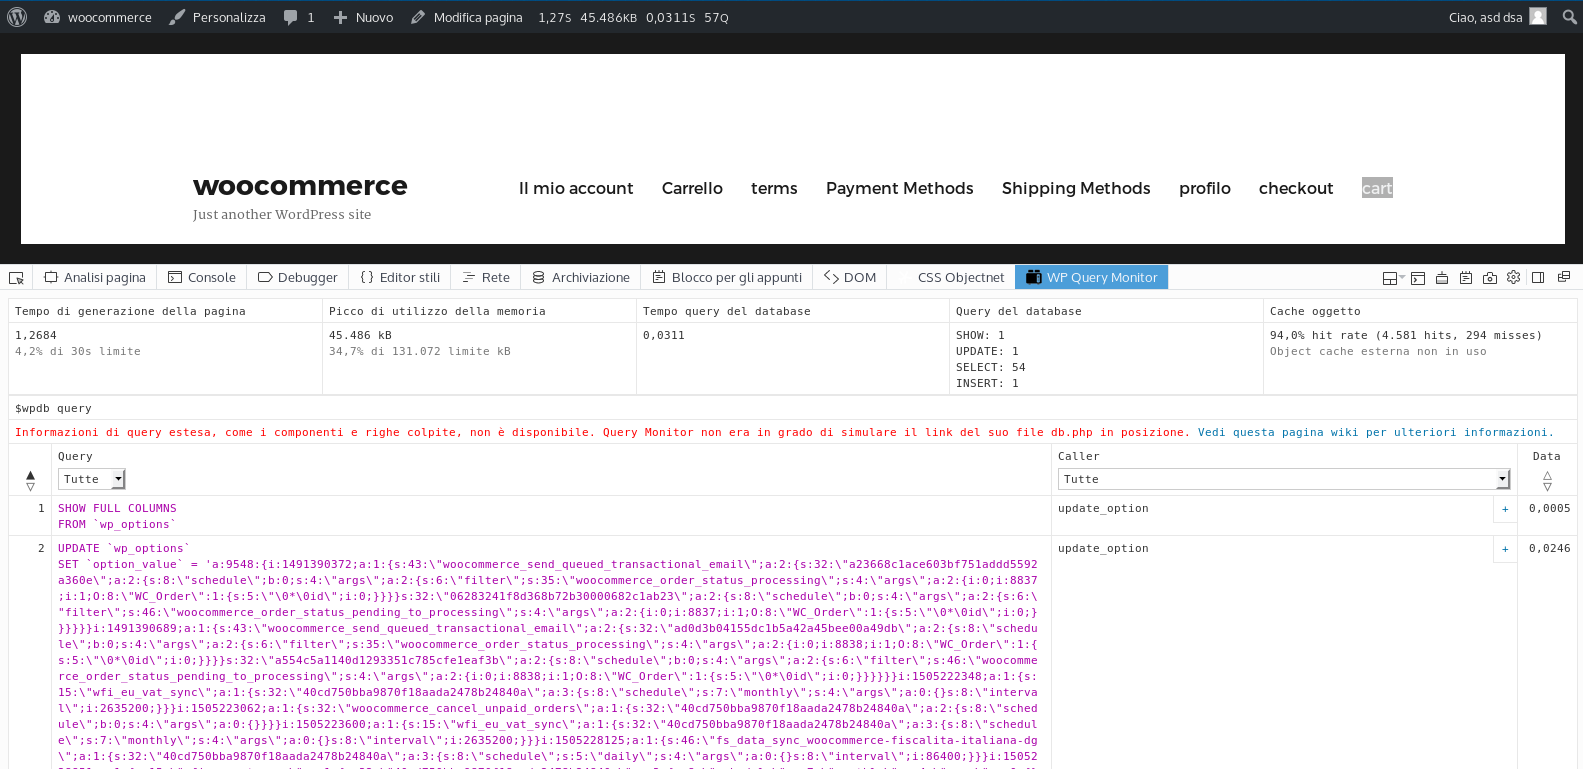
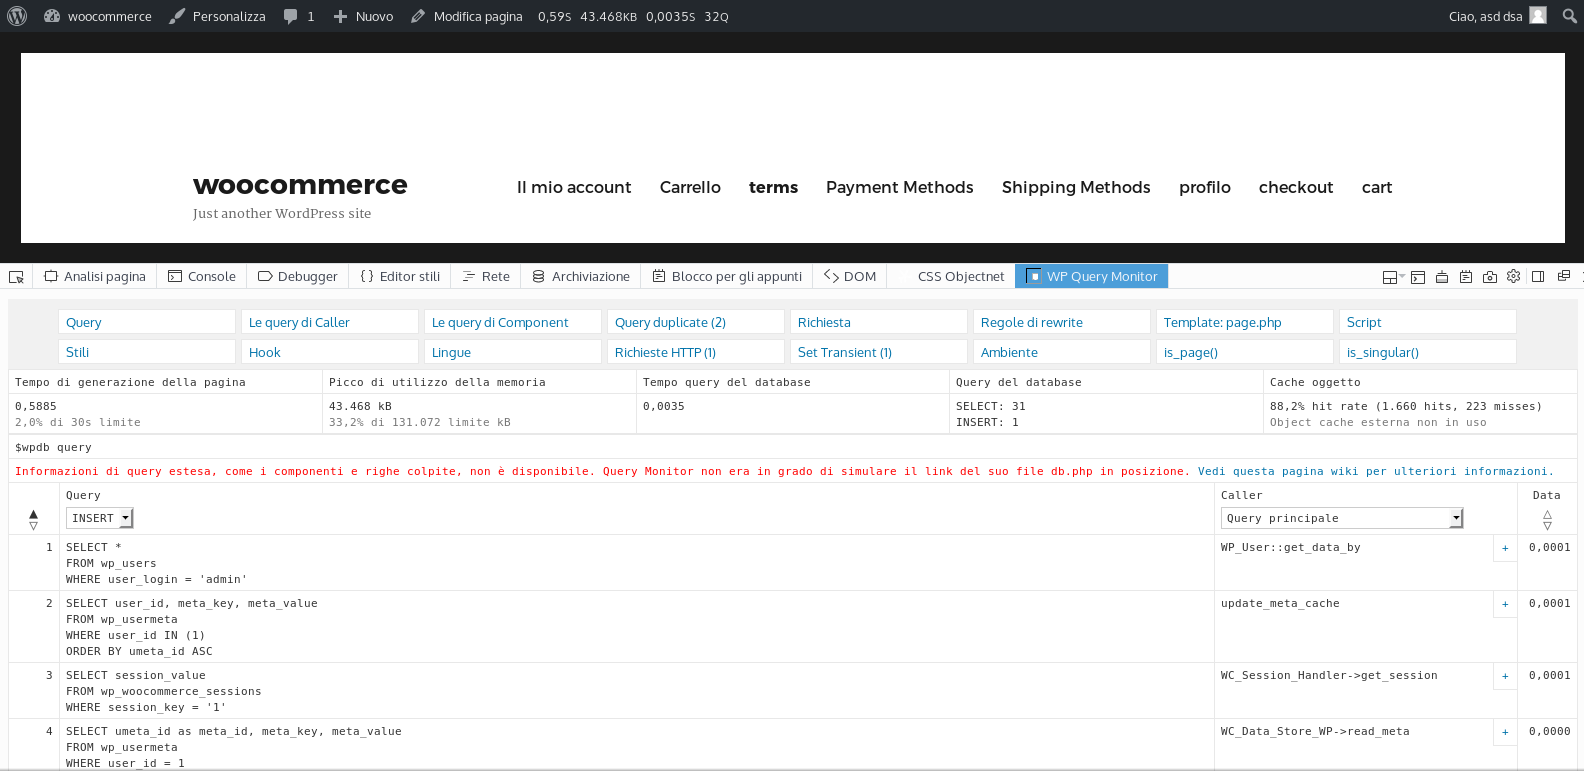
added the menu

diff --git a/devtools/panel/query-monitor.js b/devtools/panel/query-monitor.js
@@ -51,6 +51,23 @@ var QM_i18n = {
 };
 
 function loadQM() {
+  var container = document.createDocumentFragment();
+  $.each(window.qm.menu.sub, function (i, el) {
+
+	var new_menu = $('<li><a/></li>');
+	new_menu
+			.find('a').eq(0)
+			.html(el.title)
+			.attr('href', el.href);
+
+	container.appendChild(new_menu.get(0));
+
+  });
+
+  $('<ul/>').appendTo('#qm-title').append(container).find('a').on('click', function (e) {
+	$('#qm').addClass('qm-show').removeClass('qm-hide qm-peek');
+  });
+  
   $('.qm-filter').each(function () {
 	var filter = $(this).attr('data-filter');
 	var value = localStorage.getItem('qm-' + filter);
@@ -58,7 +75,7 @@ function loadQM() {
 	  $(this).val(value).change();
 	}
   });
-  
+
   $('.qm-filter').on('change', function () {
 	var filter = $(this).attr('data-filter'),
 			table = $(this).closest('table'),
@@ -67,7 +84,7 @@ function loadQM() {
 			hilite = $(this).attr('data-highlight'),
 			time = 0;
 	localStorage.setItem('qm-' + filter, $(this).find('option:selected').val());
-	
+
 	tr.removeClass('qm-hide-' + filter);
 	if (hilite) {
 	  table.find('tr').removeClass('qm-highlight');

diff --git a/devtools/panel/query-monitor.css b/devtools/panel/query-monitor.css
@@ -17,9 +17,34 @@ GNU General Public License for more details.
 	background: #f1f1f1 !important;
 	text-align: left !important;
 }
-
-#qm-title {
+	
+#qm-title p {
 	display:none;
+}
+
+#qm-title ul {
+	margin: 10px 10px 0 !important;
+	font-style: normal !important;
+	font-weight: normal !important;
+	font-size: 11px !important;
+	line-height: 16px !important;
+	font-family: Menlo, Monaco, Consolas, monospace !important;
+	list-style: none !important;
+	padding-top:10px;
+}
+
+#qm-title li {
+	display: inline-block !important;
+	width: 16em !important;
+	background: #fff !important;
+	border: 1px solid #e8e8e8 !important;
+	margin: 0 5px 5px 0 !important;
+}
+
+#qm-title li a {
+	display: block !important;
+	padding: 4px 7px !important;
+	font: 13px/15px 'Open Sans', Arial !important;
 }
 
 .qm-half {

diff --git a/devtools/panel/panel.html b/devtools/panel/panel.html
@@ -6,7 +6,7 @@
 		<link rel='stylesheet' href='query-monitor.css' type='text/css' media='all' />
 	</head>
 	<body>
-		<div id="qm" class="qm-js">This site not include Query Monitor</div>
+		<div id="qm">This site not include Query Monitor</div>
 		<script src="devtools-panel.js"></script>
 		<script src="query-monitor.js"></script>
 	</body>
